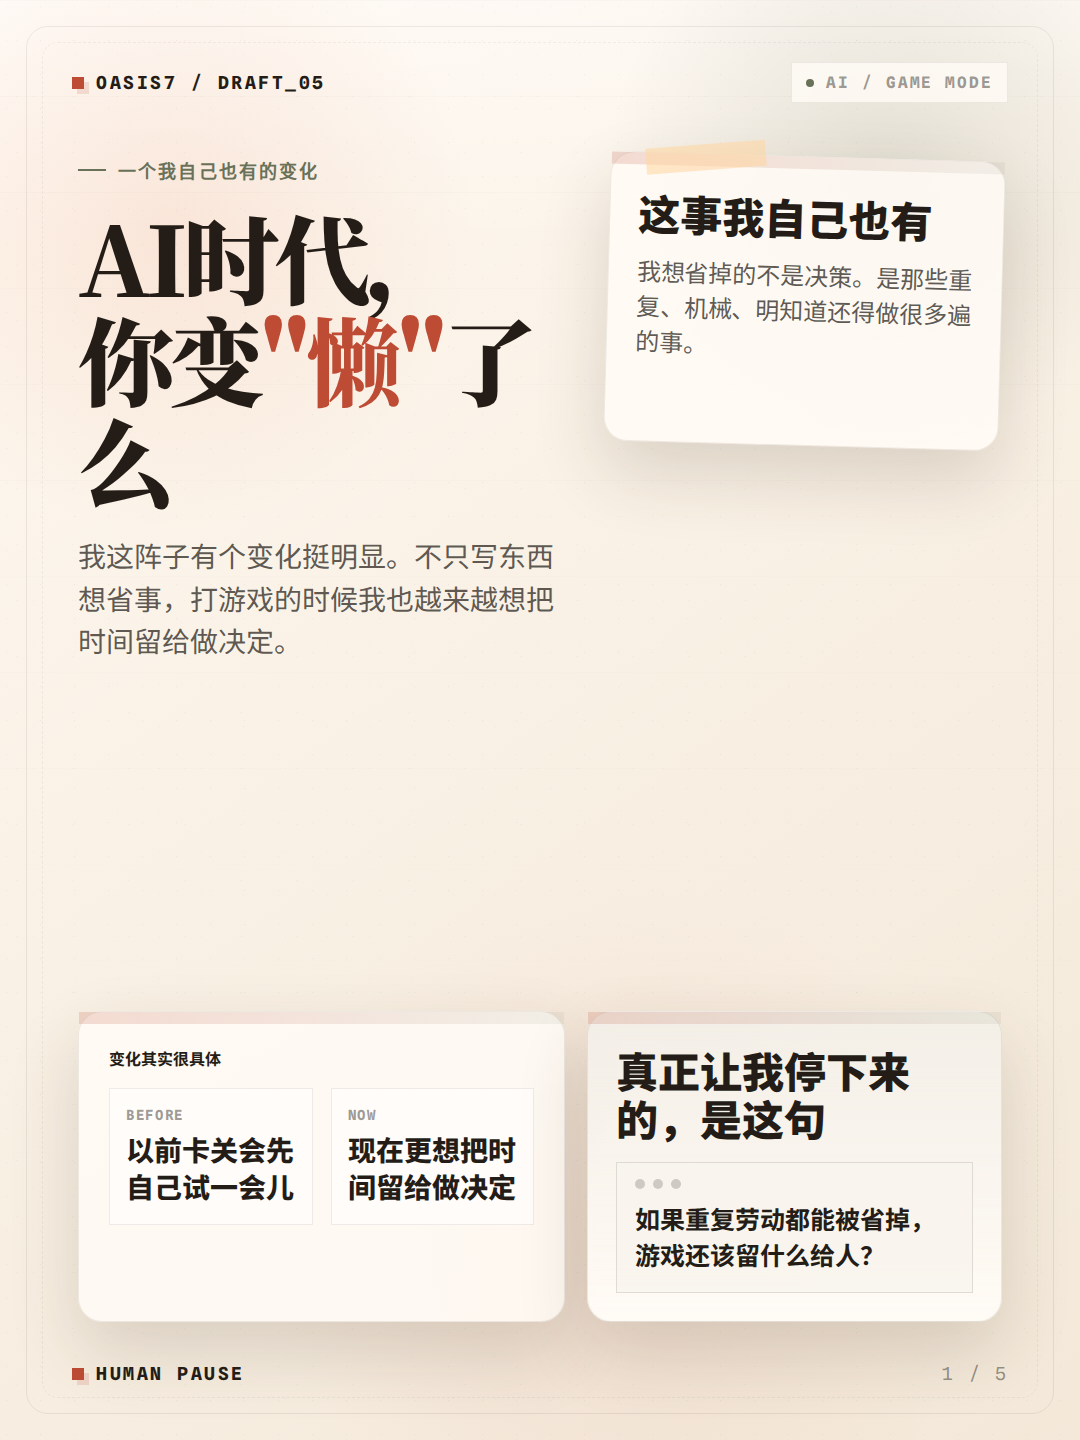
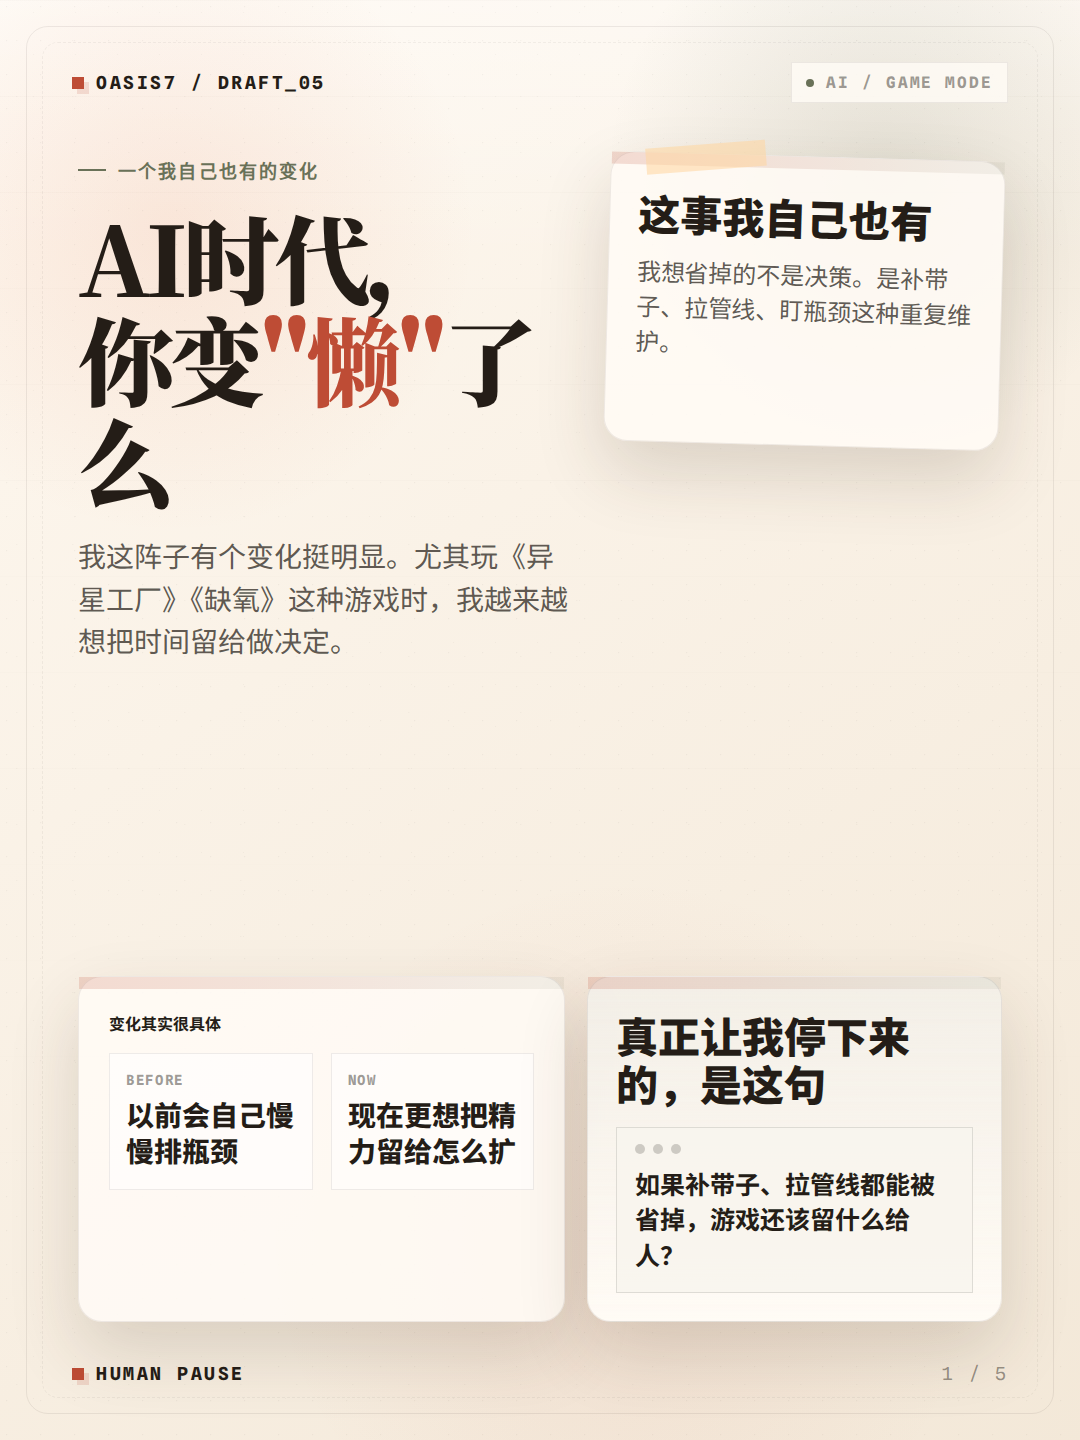
tune fifth xiaohongshu post for sandbox pain points

diff --git a/site/social/xiaohongshu-ai-laziness-game-mode.html b/site/social/xiaohongshu-ai-laziness-game-mode.html
@@ -786,23 +786,23 @@
         {
           kind: "cover",
           title: 'AI时代，<br />你变<span class="accent">"懒"</span>了么',
-          subtitle: "我这阵子有个变化挺明显。不只写东西想省事，打游戏的时候我也越来越想把时间留给做决定。",
+          subtitle: "我这阵子有个变化挺明显。尤其玩《异星工厂》《缺氧》这种游戏时，我越来越想把时间留给做决定。",
           noteTitle: "这事我自己也有",
-          noteBody: "我想省掉的不是决策。是那些重复、机械、明知道还得做很多遍的事。",
-          compareLeft: "以前卡关会先自己试一会儿",
-          compareRight: "现在更想把时间留给做决定",
-          prompt: "如果重复劳动都能被省掉，游戏还该留什么给人？",
+          noteBody: "我想省掉的不是决策。是补带子、拉管线、盯瓶颈这种重复维护。",
+          compareLeft: "以前会自己慢慢排瓶颈",
+          compareRight: "现在更想把精力留给怎么扩",
+          prompt: "如果补带子、拉管线都能被省掉，游戏还该留什么给人？",
         },
         {
           kind: "chat",
           title: "我发现自己会偷懒",
           stickyTitle: "先承认这件事",
-          stickyBody: "整理、改字会先找 AI。连打游戏，我现在也越来越不想把时间耗在重复操作上。",
+          stickyBody: "整理、改字会先找 AI。连玩《异星工厂》《缺氧》这种局，我也越来越烦补带子、拉管线、来回救火。",
           userTitle: "以前的停顿",
-          userBody: '<span class="strike">重复刷 / 重复跑 / 重复点</span>',
+          userBody: '<span class="strike">补带子 / 拉管线 / 追着瓶颈跑</span>',
           aiTitle: "现在更常见的反应",
-          aiBody: "这些要是能被系统接走，我更想把时间留给决定怎么打。",
-          tail: "省掉重复劳动我完全接受。关键是，做决定这件事别一起被省掉。",
+          aiBody: "这些要是能被系统接走，我更想把时间留给扩哪边、先救哪边。",
+          tail: "省掉重复维护我完全接受。关键是，做决定这件事别一起被省掉。",
         },
         {
           kind: "allowed",
@@ -810,61 +810,61 @@
           stamp: "worth automating",
           metrics: [
             {
-              title: "整理",
-              body: "归一下、拉个清单，这些本来就适合提速。",
+              title: "补带子",
+              body: "产线一长，来回补那几截带子，做多了真的很麻。",
             },
             {
-              title: "改字",
-              body: "卡在表述的时候，让 AI 帮我起个头也没什么。",
+              title: "拉管线",
+              body: "气管液管一改就是整串返工，这种活我是真想省。",
             },
             {
-              title: "刷材料",
-              body: "游戏里那些纯重复劳动，确实也不值得每次都硬熬。",
+              title: "盯瓶颈",
+              body: "基地一大，缺氧断电堵料轮着来，很多时候像在值班。",
             },
           ],
           summary: "这些懒没问题",
-          summaryBody: "因为被省掉的主要还是体力活，这样时间才留得下来给判断和取舍。",
-          list: ["整理", "改字", "刷材料"],
+          summaryBody: "因为被省掉的更像重复维护，不是我最想保留的那部分乐趣。",
+          list: ["补带子", "拉管线", "盯瓶颈"],
         },
         {
           kind: "question",
-          title: "重复劳动可以少一点",
-          body: "如果系统能把刷、跑、点这些重复事接过去，那玩家最该保留下来的，是不是就该是决策？",
+          title: "重复维护可以少一点",
+          body: "如果系统能把补带子、拉管线、查堵点这些事接过去，那玩家最该保留下来的，是不是就该是决策？",
           ladder: [
             {
               label: "可以被省掉的",
-              title: "重复劳动",
-              body: "刷、跑、点、做很多次一样的事，这些真的很耗时间。",
+              title: "重复维护",
+              body: "补一截带子、重拉一段管线、追着一个小瓶颈反复修，这些真的很耗时间。",
             },
             {
               label: "最好留下来的",
               title: "关键决策",
-              body: "先做什么、资源给谁、这步赌不赌，这些我还是想自己定。",
+              body: "先扩哪边、氧和电先保哪边、这一片要不要大改，这些我还是想自己定。",
             },
           ],
           sideTitle: "我在意的是",
-          sideBody: "我想要的不是全自动通关。是少做重复事，把时间留给判断。",
-          tokens: ["先做什么", "资源给谁", "赌不赌"],
+          sideBody: "我想要的不是全自动经营。是少补维护，把时间留给真正要拍板的地方。",
+          tokens: ["先扩哪边", "先保哪边", "要不要大改"],
         },
         {
           kind: "closing",
-          title: "如果游戏能替你省事<br />你最想自己留下什么决定？",
-          body: "如果重复劳动都能被接走，你最想自己保留哪一类决策？",
+          title: "如果是沙盒游戏<br />你最想自己留下什么决定？",
+          body: "如果是《异星工厂》《缺氧》这种游戏，你最想自己保留哪一类决策？",
           options: [
             {
-              title: "先做什么",
-              body: "第一步先投哪里、先做哪边，这个我想自己定。",
+              title: "先扩哪边",
+              body: "先补产能、先冲科研，还是先开新区域，这个我想自己定。",
             },
             {
-              title: "资源给谁",
-              body: "资源先砸哪、先保守还是先冒险，我来选。",
+              title: "先保哪边",
+              body: "氧、电、水先稳哪块，哪个系统先抢救，我来选。",
             },
             {
-              title: "赌不赌",
-              body: "这步要不要冒险、要不要梭进去，我想自己拍板。",
+              title: "要不要大改",
+              body: "这一片基地要不要推倒重拉，我想自己下这个决定。",
             },
           ],
-          footer: "我想省掉的是重复劳动，不是决策本身。你呢？",
+          footer: "我想省掉的是补维护，不是做决定。你呢？",
         },
       ];
 

diff --git a/doc/readme/governance/readme-xiaohongshu-ai-laziness-game-mode-post-pack-2026-03-26.md b/doc/readme/governance/readme-xiaohongshu-ai-laziness-game-mode-post-pack-2026-03-26.md
@@ -42,59 +42,66 @@ AI时代，你变"懒"了么
 我现在都会先想：
 要不要先看一眼攻略？
 
-但我后来发现，
-我想省掉的，
-好像也不只是工作里的重复活。
+尤其是玩《异星工厂》、
+《缺氧》这种游戏的时候，
+这个感觉更明显。
 
-连打游戏也是。
-我越来越不想把时间
-耗在那些机械、重复、
-明知道还得再做很多遍的事情上。
+真正磨人的，
+很多时候不是
+“下一步到底往哪扩”。
 
-整理资料、改字、刷材料，
-或者游戏里那些纯刷材料的劳动，
-本来就挺耗人。
+而是补那一截传送带，
+重拉一段气管液管，
+或者追着一个小瓶颈
+来来回回地修。
+
+这些事不是没价值。
+但做多了，
+真的很像在补维护工单。
 
 所以对我来说，
 游戏变简单一点，
 其实没什么不好。
 
-重复的事少一点，
+重复维护少一点，
 也没什么不好。
 
 我更想把时间
 留给另一种东西：
 做决定。
 
-先做什么，
-往哪边走，
-资源投给谁，
-这一把到底要不要赌。
+先扩哪边，
+氧和电先保哪边，
+资源先砸科研
+还是先救眼前这个火，
+这一片到底要不要大改。
 
 这些我还是想自己来。
 
 所以我最近一直在想：
 如果系统真的能把
-重复劳动接过去，
+补带子、拉管线、
+盯瓶颈这些事接过去，
 那游戏还该留什么给人？
 
 我现在会更偏向：
-把重复劳动拿掉，
-把决策留下。
+把重复维护拿掉，
+把关键决策留下。
 
-不然游戏只是忙。
-不是玩。
+不然很多沙盒游戏后面
+就不是在玩。
+是在值班。
 
 你们会这样吗？
 用了 AI 之后，
 你会更想把时间
-花在重复操作上，
+花在补维护上，
 还是花在做决定上？
 ```
 
 ## 评论区引导
 ```text
-如果游戏能替你省掉很多重复劳动，你最想自己保留哪种决策？
+如果是《异星工厂》《缺氧》这种游戏，你最想自己保留哪种决策？
 ```
 
 ## 卡片文案
@@ -111,8 +118,8 @@ AI时代，
 
 不只是在工作里
 
-连打游戏
-也越来越想省事
+连玩沙盒游戏
+也越来越烦重复维护
 ```
 
 ### 第 3 页 / 哪些懒没问题
@@ -120,25 +127,25 @@ AI时代，
 有些省事
 我能接受
 
-整理资料
-改字
-刷材料
+补带子
+拉管线
+盯瓶颈
 
-这些本来就挺耗时间
+这些真的很耗人
 ```
 
 ### 第 4 页 / 重点收回游戏模式
 ```text
-重复劳动
+重复维护
 可以少一点
 
-但决策
-还是得是你的
+但扩哪边
+还是得我自己定
 ```
 
 ### 第 5 页 / 收束页
 ```text
-如果游戏能替你省事
+如果是沙盒游戏
 
 你最想自己留下哪种决策？
 ```
@@ -163,6 +170,7 @@ AI时代，
 - 不要做“AI 焦虑海报”，也不要堆机器人、芯片、脑回路之类老套意象。
 - 画面更像一个人盯着自己的工作流，突然意识到某些判断也开始外包了。
 - 画面也可以出现很轻的“攻略 / 配装 / 最优解 / 提示框”痕迹，让“连玩游戏也在省事”更具体。
+- 如果往《异星工厂》/《缺氧》痛点靠，可以用很轻的 `传送带 / 管线 / 氧气 / 电力 / 堵料警报` 视觉暗示，但不要直接做成二创海报。
 - 可以使用：
   - 更少元素，更强标题
   - 便签、输入框、删除线、聊天框停顿感
@@ -184,18 +192,21 @@ AI时代，
 ## 标签建议
 ```text
 #AI
+#沙盒游戏
+#异星工厂
+#缺氧
 #独立游戏
 #游戏思考
 #游戏开发
 #游戏设计
 #开发日记
-#独立开发
 ```
 
 ## 发布备注
 - 这篇一定要先承认一点真实变化，不要上来就教育别人“人类不能偷懒”。
 - 重点不是批判懒，而是区分“哪些重复劳动可以省掉，哪些决策不能一起被省掉”。
 - 最好明确提到“游戏里那些重复、耗时、机械的事可以被省掉”，不然“只把决策留给玩家”这层意思会不够清楚。
+- 如果这轮要更贴《异星工厂》《缺氧》，优先保留“补带子”“拉管线”“盯瓶颈”“像在值班”这些玩家会马上懂的痛点词。
 - 如果还要继续人味化，优先保留“把时间留给做决定”“不然游戏只是忙，不是玩”这种短句，不要再往大而抽象的设计词退回去。
 - 讨论必须往游戏模式收，不要停在泛工具效率和生产力焦虑。
 - 不要写成“我们的游戏已经给出了完整答案”，当前只能保持设计判断层表达。

diff --git a/doc/devlog/2026-03-26.md b/doc/devlog/2026-03-26.md
@@ -456,3 +456,25 @@
   - `file site/social/xiaohongshu-ai-laziness-game-mode-slide{1,2,3,4,5}.png`
 - 遗留事项：
   - 当前第五篇已到可发版；如果后续还要继续压，只建议再微调第 1 页副文，不建议再动第 4、5 页的主结构和问题句。
+
+## 16:51:15 CST / liveops_community
+- 完成内容：
+  - 按用户要求把第五篇再往《异星工厂》《缺氧》这类沙盒经营游戏的真实痛点上压，不再只写“重复劳动”，而是具体落到 `补带子 / 拉管线 / 盯瓶颈 / 来回救火` 这些玩家会立刻代入的烦点。
+  - 同步把第 4、5 页的决策项改成更贴这类游戏的问法，收口为 `先扩哪边 / 先保哪边 / 要不要大改`，避免继续停在泛泛的“资源给谁 / 赌不赌”。
+  - 回写素材包标签、发布备注和 `doc/readme/project.md` 验收关键词，准备按新文案重导第五篇图片。
+- 执行验证：
+  - `rg -n "AI时代，你变\"懒\"了么|异星工厂|缺氧|补带子|拉管线|先扩哪边|先保哪边|要不要大改" doc/readme/governance/readme-xiaohongshu-ai-laziness-game-mode-post-pack-2026-03-26.md site/social/xiaohongshu-ai-laziness-game-mode.html`
+- 遗留事项：
+  - 需要重导第五篇 5 张 PNG，并抽查第 2、4、5 页在手机阅读下是否仍然清楚。
+
+## 16:58:56 CST / viewer_engineer
+- 完成内容：
+  - 按沙盒痛点新文案重导 `site/social/xiaohongshu-ai-laziness-game-mode-slide1.png` 到 `site/social/xiaohongshu-ai-laziness-game-mode-slide5.png`，保证图上已出现《异星工厂》《缺氧》与 `补带子 / 拉管线 / 先扩哪边 / 先保哪边 / 要不要大改` 这组新关键词。
+  - 抽查第 2、4、5 页，确认新增游戏名和决策词在手机尺寸下仍然可读，没有把标题或选项卡挤爆。
+  - 顺手修正素材包评论区引导里的空格错误，保证正文包、HTML 和成图文案完全一致。
+- 执行验证：
+  - `agent-browser open http://127.0.0.1:8765/site/social/xiaohongshu-ai-laziness-game-mode.html?slide=2`
+  - `agent-browser open http://127.0.0.1:8765/site/social/xiaohongshu-ai-laziness-game-mode.html?slide=4`
+  - `agent-browser open http://127.0.0.1:8765/site/social/xiaohongshu-ai-laziness-game-mode.html?slide=5`
+- 遗留事项：
+  - 当前第五篇已更偏向沙盒经营玩家语境；如果后续还要再压，只建议微调第 2 页便签段落长度，不建议再改第 4、5 页决策项。

diff --git a/doc/readme/project.md b/doc/readme/project.md
@@ -356,7 +356,7 @@
     - `site/social/xiaohongshu-ai-laziness-game-mode-slide5.png`
     - `doc/devlog/2026-03-26.md`
   - 验收命令 (`test_tier_required`):
-    - `rg -n "AI时代，你变\"懒\"了么|重复劳动|做决定|先做什么|资源给谁|赌不赌" doc/readme/governance/readme-xiaohongshu-ai-laziness-game-mode-post-pack-2026-03-26.md site/social/xiaohongshu-ai-laziness-game-mode.html`
+    - `rg -n "AI时代，你变\"懒\"了么|异星工厂|缺氧|补带子|拉管线|先扩哪边|先保哪边|要不要大改" doc/readme/governance/readme-xiaohongshu-ai-laziness-game-mode-post-pack-2026-03-26.md site/social/xiaohongshu-ai-laziness-game-mode.html`
     - `./scripts/doc-governance-check.sh`
     - `git diff --check`
 
